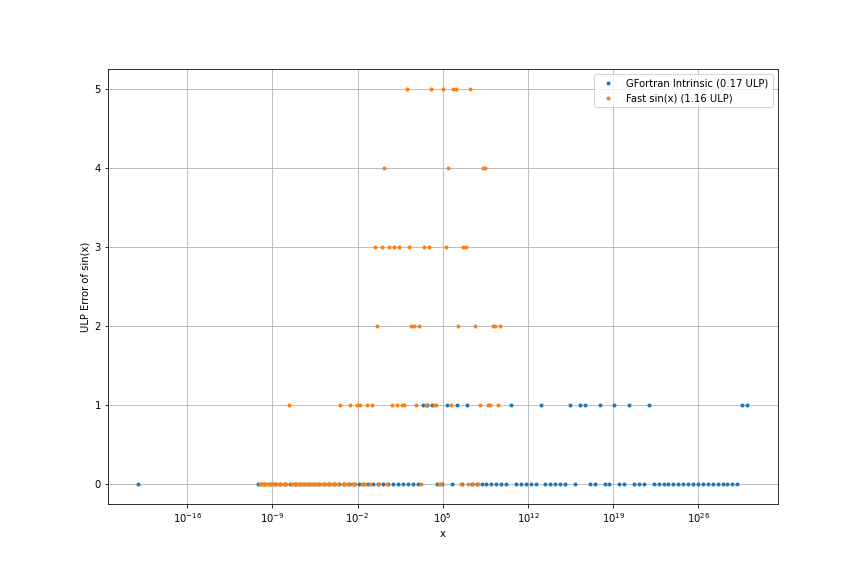
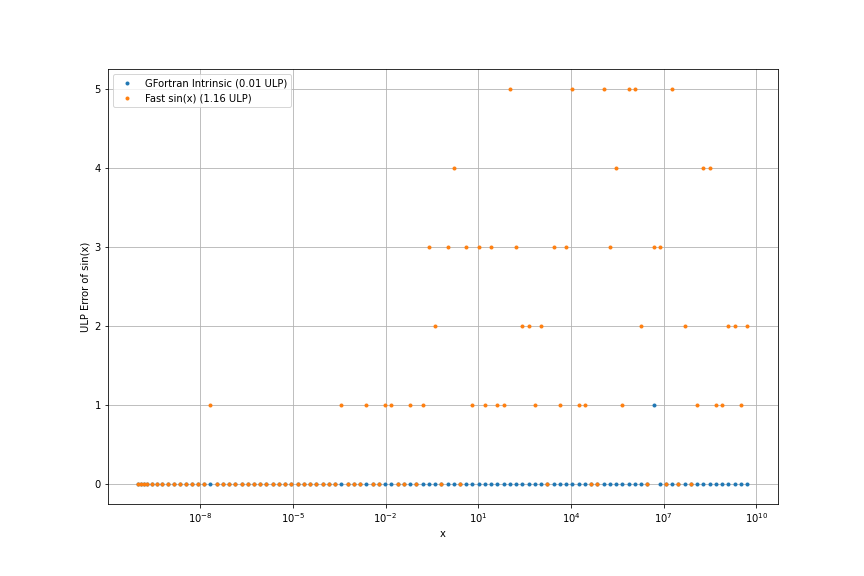
Update

diff --git a/blog/Accuracy.md b/blog/Accuracy.md
@@ -5,7 +5,7 @@ jupytext:
     extension: .md
     format_name: myst
     format_version: 0.13
-    jupytext_version: 1.12.0
+    jupytext_version: 1.13.1
 kernelspec:
   display_name: Python 3 (ipykernel)
   language: python
@@ -15,9 +15,7 @@ kernelspec:
 ```{code-cell} ipython3
 #!gfortran -Wall -Wextra -Wimplicit-interface -fPIC -fmax-errors=1 -g -fcheck=all -fbacktrace ../sin_accuracy.f90 -o sin_accuracy
 #!gfortran -Wall -Wextra -Wimplicit-interface -fPIC -fmax-errors=1 -g -fcheck=all -fbacktrace ../sin_accuracy_pure.f90 -o sin_accuracy_pure
-!gfortran -O3 -march=skylake -ffast-math -funroll-loops ../sin_accuracy.f90 -o sin_accuracy
-!gfortran -O3 -march=skylake -ffast-math -funroll-loops ../sin_accuracy_pure.f90 -o sin_accuracy_pure
-!./sin_accuracy > sin_data.txt
+!gfortran -O3  -ffast-math -funroll-loops ../sin_accuracy_pure.f90 -o sin_accuracy_pure
 !./sin_accuracy_pure > sin_pure_data.txt
 ```
 
@@ -82,14 +80,14 @@ abs(sin_pos+sin_neg).max()
 ```
 
 ```{code-cell} ipython3
-D = loadtxt("sin_data.txt")
-x = D[:,0]
-sin_gf = D[:,1]
 D = loadtxt("sin_pure_data.txt")
 #assert(max(abs(x-D[:,0])) < 1e-16)
 x2 = D[:,0]
 sin_pure = D[:,1]
 sin_pure_double = D[:,2]
+x = x2
+sin_gf = D[:, 4]
+
 
 @vectorize
 def diff_ulp(x, y):
